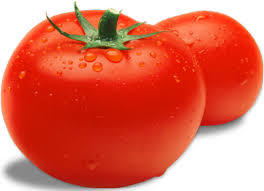
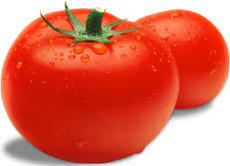
edited image sizes on modals

diff --git a/app/models/image_decorator.rb b/app/models/image_decorator.rb
@@ -2,7 +2,7 @@ Spree::Image.class_eval do
   attachment_definitions[:attachment][:styles] = {
     :mini => '48x48>', # thumbs under image
     :small => '240x240>', # images on category view
-    :product => '320x320>', # full product image
+    :product => '230x230>', # full product image
     :large => '600x600>' # light box image
   }
 end
